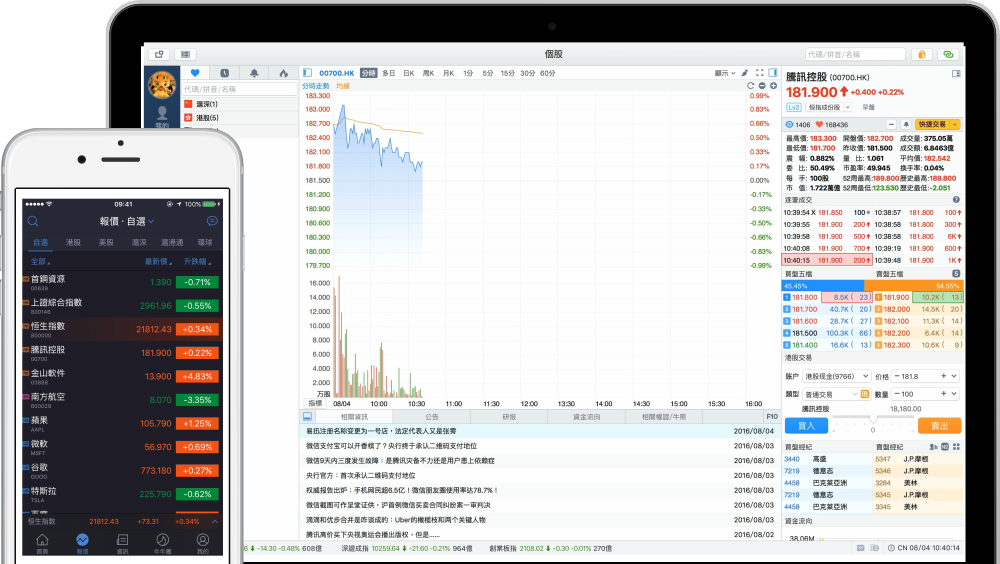
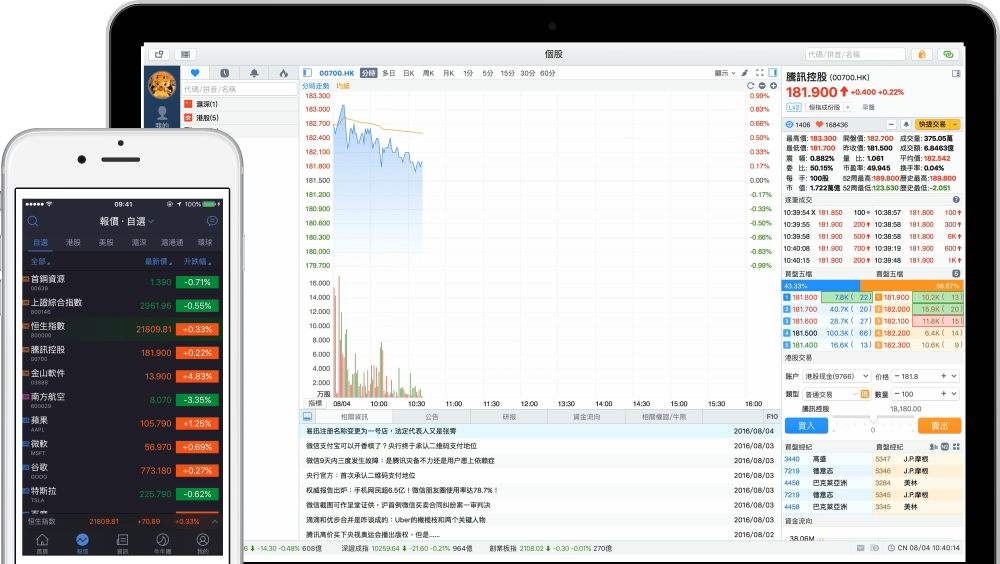
富途牛牛屏幕演示动画修改

diff --git a/js/futunnscreen-data.js b/js/futunnscreen-data.js
@@ -1,34 +1,52 @@
 var position = {
-	1:[0,1367526,1,223947,2,480639,669,3331,1351,3318,2029,3322,2712,3319,3395,3315,4077,3318,4754,104913,4755,54297,6340,1660],
-	2:[0,1304548,299,3697,598,3713,881,3713,1164,3713,1462,3698,1765,3697,2068,743573,2441,3365,3052,3373,3683,3597,4082,3623,4465,3623,4840,3647,5185,159235,6916,1084],
-	3:[0,1272584,305,3695,610,3695,915,3631,1284,3631,1653,3655,1998,3655,2343,3651,2692,3655,3037,3643,3394,3643,3751,3651,4100,3655,4445,3651,4794,3651,5143,3643,5500,3695,5805,3695,6110,3631,6479,3631,6848,3695,7153,3695,7458,3695,7763,711519,7764,4041,7927,4009,7928,3827,8069,96997,8364,3685,8683,3681,9002,3677,9325,3681,9644,3681,9943,3997,9946,50133,13264,2736],
-	4:[0,543776,7,3993,10,3989,25,3985,40,3985,55,3985,70,19973,101,3981,120,3967,157,3963,190,3973,221,3965,252,59493,287,3965,322,3965,357,3965,392,3965,427,3985,442,155903,683,3749,1078,3605,1473,3611,1862,3605,2257,3605,2652,3625,3019,23649,3562,3437,4129,3433,4700,3429,5271,3429,5842,3429,6413,3678,6415,24307,6456,3401,7055,3401,7654,3401,8256,3398,8855,3590,9265,27349,9916,3345,10571,3345,11226,3345,11881,3345,12536,3347,13192,11298,13559,3633,13926,3633,14293,3633,14660,3633,15359,3301,16058,3301,16757,3301,17459,3298,18158,3301,18857,3301,19224,3633,19591,3634,19957,55929,19964,3993,19971,3991,19980,3993,19987,3725,20646,3341,21305,3341,21964,3341,22619,3345,23266,3353,23905,3627,23914,3993,23921,3993,23928,101125,24265,3451,24816,3453,25363,3441,25922,3457,26465,3453,27012,3449,27563,3453,28110,3449,28661,3445,29216,3449,29767,3449,30318,3453,30865,3453,31412,3453,31959,3445,32514,3445,33069,3453,33616,3449,34167,3445,34722,3445,35277,3445,35832,3449,36383,3445,36938,895109,49252,2748],
-	5:[0,663280,55,3945,110,3945,163,3947,222,3941,281,3945,334,436087,353,3977,376,1325,377,2651,400,1325,403,2651,424,3713,1079,3341,1742,3337,2401,3341,3064,3337,3727,3337,4386,3609,4409,3977,4432,3981,4451,12286,4549,3861,4696,3857,4839,3857,4982,3857,5121,3861,5264,68613,5365,3727,5978,3391,6587,3387,7200,3387,7813,3383,8430,3375,9055,3375,9680,3387,10293,3387,10906,3375,11531,3331,12200,3375,12825,3375,13450,3375,14075,3375,14700,3375,15325,3375,15950,3375,16575,3387,17188,3391,17797,3375,18422,3375,19047,3387,19660,223264,19661,99998,19664,143377,19671,3993,19686,3987,19699,3985,19714,3985,19729,3985,19740,28005,19755,3985,19766,3987,19783,3983,19800,3985,19815,3989,19822,24061,19913,3801,20112,3789,20323,3789,20534,3797,20739,3807,20930,3805,21129,23905,21220,3801,21419,3789,21630,3789,21841,3798,22045,3793,22250,3805,22449,23905,22540,3801,22739,3789,22950,3789,23161,3799,23362,3905,23457,3905,23556,216285,31408,592],
-	6:[0,543781,1,12004,2,7993,4,23983,6,7986,7,67526,62,3945,117,3947,168,3947,227,3941,286,3945,341,155911,544,3801,765,4119,766,3617,767,4140,885,31965,886,4341,903,3541,904,11999,923,28443,924,19995,925,27623,1092,3975,1333,7756,1367,3626,1368,4584,1369,31353,1650,8389,1651,7313,1652,68299,1671,3981,1690,1309,1691,2671,1710,1309,1713,2669,1732,3693,2391,3341,3054,3337,3713,3341,4376,3337,5039,3339,5696,3629,5715,3966,5749,3825,5956,3793,6163,3793,6370,3793,6577,3793,6784,3793,7314,3470,7863,3451,8401,3462,8608,3793,8815,3793,9022,3793,9229,3794,9435,43851,9440,3937,9647,3793,9854,3793,10061,3793,10268,3793,10475,3793,10682,3793,10889,3793,11096,1167,11097,2625,11304,1167,11305,2625,11512,1171,11549,2585,11756,1207,11757,2585,11964,3793,12171,729,12172,3063,12379,3793,12586,1143,12587,2649,12794,3793,13001,3793,13208,3793,13415,3793,13622,3793,13829,3793,14036,3793,14243,3793,14450,3839,14607,224666,14608,99998,14611,151378,14612,12006,14613,76108,14618,3851,14619,11996,14620,4130,14654,27863,14778,11964,14779,3939,14780,3981,14781,35971,14782,3989,14894,3999,14908,4007,14909,144189,14920,3989,14935,3985,14942,1959,14951,2025,14966,3985,14981,1903,14982,2081,14989,52169,19988,12],
-	7:[0,663317,1,19970,2,315908,3,32218,4,103739,5,4628,7,128661,448,3387,1063,3389,1674,2575,1675,809,2290,3385,2905,3381,3524,3373,4151,2497,4152,875,4779,3385,5394,3385,6009,3373,6636,3373,7263,3373,7890,3373,8517,3373,9144,3373,9771,2546,9772,826,10399,3373,11026,2450,11027,922,11654,3385,12269,3389,12880,3373,13507,3373,14134,3385,14749,566763,14760,7869,14761,55987,14762,80889,15124,3634,15485,3635,15854,3631,16219,3635,16590,3629,16959,3635,17316,89021,17317,11969,17318,58243,23092,908],
-	8:[0,543774,1,59995,2,59513,53,3945,108,3949,155,3949,214,3941,273,3941,332,159913,430,8083,458,7893,459,28430,460,7450,461,8089,462,35901,471,20549,472,27914,569,7756,714,7899,817,36124,818,79614,837,3981,856,3981,875,3981,894,3705,1545,3337,2208,3337,2867,3341,3530,3337,4193,3361,4828,3629,4847,3981,4866,3981,4885,4013,4894,3863,4895,16111,4896,4243,4897,7767,4898,3979,4899,4379,4900,3819,5107,3793,5314,3793,5521,3793,5728,3793,5935,3793,6142,3793,6349,3793,6556,3793,6763,3793,6970,3793,7177,3501,7676,3794,7882,3481,7883,8035,7884,4017,7885,7937,7886,5375,7887,2623,8036,1397,8037,3723,8118,4134,8128,3789,8129,4151,8180,3763,8437,3755,8450,2862,8451,1151,8452,4028,8637,30575,8678,572094,8679,4075,8680,32048,8681,19858,8819,3851,8820,39993,8821,48913,9169,3668,9170,4015,9171,7993,9172,89121,9481,3877,9482,3887,9483,3953,9484,4103,9572,54210,12764,3236],
-	9:[0,663282,53,3945,108,3945,161,3951,216,3941,275,3941,330,480081,368,3830,574,3794,781,3793,987,3794,1193,3794,1399,3794,1605,3794,1811,3794,2017,3794,2224,3793,2431,3793,2638,3793,3207,3431,3777,3794,3984,3793,4191,3793,4398,3793,4605,3793,4812,3793,5019,3793,5226,3793,5432,3794,5638,3794,5844,3794,6051,3793,6258,3793,6465,3793,6672,762,6945,2758,7152,758,7429,2758,7636,758,7913,2758,8120,750,8405,2758,8612,754,8893,2758,9100,758,9377,2758,9584,782,9837,2758,10044,754,10325,2758,11567,2758,12809,2764,13010,726,13319,3679,13640,3679,13961,3679,14282,3667,14615,3751,14864,3747,15117,3747,15370,3715,15655,3747,15908,3715,16193,3719,16474,3719,16755,895110,22340,1660],
+	1:[0,1304548,299,3697,598,3713,881,3713,1164,3713,1462,3698,1765,3697,2068,38679,2069,223947,2070,480641,2747,3319,3429,3318,4107,3322,4789,3320,5472,3315,6154,3318,6831,104913,6832,54297,9112,2888],
+	2:[0,543776,3,7989,18,3985,33,27973,48,3997,67,3969,98,3969,129,3973,160,3993,163,59501,182,3973,217,3965,252,3965,287,3985,302,3985,309,155937,524,3749,919,3605,1314,3617,1697,3605,2092,3605,2487,3870,2489,23769,2508,3961,3075,3433,3642,3433,4212,3430,4783,3429,5350,3683,5351,24310,5389,3409,5972,3413,6567,3401,7166,3401,7765,3591,8174,27353,8821,3349,9472,3347,10125,3346,10779,3353,11426,3349,12077,11302,12443,3634,12809,3634,13175,3634,13541,3634,14239,3302,14937,3302,15635,3302,16333,3302,17031,3302,17729,3302,18095,3634,18461,3634,18827,55929,18830,3997,18837,3993,18844,3993,18851,3729,19486,3361,20145,3341,20804,3341,21455,3349,22102,3357,22737,3629,22744,3993,22751,3993,22754,105281,22939,3815,23124,3815,23309,3815,23494,3815,23679,3987,23692,3987,23705,3987,23718,3987,23731,3735,23996,3655,24341,3763,24578,3739,24839,3987,24852,3687,25165,3791,25374,3987,25387,3987,25400,3815,25585,3815,25770,3815,25955,3815,26140,3819,26321,824695,26596,3709,26899,3693,27206,3697,27509,3713,27792,54133,37056,2944],
+	3:[0,543780,3,3993,6,11989,21,3985,36,19977,63,3989,70,3971,107,3963,138,3979,164,3966,185,59503,240,3945,295,3945,348,3947,407,3941,466,3945,519,155881,748,3969,811,3733,1193,3620,1462,3762,1815,3738,2074,3633,2441,23653,2980,3465,3513,3539,3984,3434,4550,3449,5084,3562,5539,3678,5540,24308,5579,3403,6178,3401,6763,3605,7175,3402,7752,3608,7766,27745,8415,3347,9069,3346,9714,3355,10359,3355,10996,3365,11652,11298,12017,3635,12018,3999,12019,3999,12384,3635,13081,3303,13758,3323,14443,3315,15145,3298,15842,3303,16519,3323,16884,3635,17249,59935,17268,3977,17291,1325,17292,2649,17317,1325,17320,2650,17342,3713,17997,3341,18660,3337,19319,3341,19982,3337,20645,3341,21300,3607,21325,3977,21348,3981,21367,12286,21465,3861,21612,3857,21755,3857,21898,3857,22037,3861,22180,68613,22621,3387,23236,3389,23847,3385,24462,3385,25077,3381,25696,3373,26323,3373,26950,3385,27565,3385,28180,3373,28807,3329,29478,3373,30105,3373,30732,3373,31359,3373,31986,3373,32613,3373,33240,3373,33867,3385,34482,3389,35093,3373,35720,3373,36347,3385,36962,223262,36963,99998,36966,143377,36973,3993,36988,3987,37001,3985,37016,3985,37031,3985,37042,28005,37057,3985,37068,3987,37085,3983,37102,3985,37117,3989,37124,24061,37215,3801,37414,3789,37625,3789,37836,3797,38041,3807,38232,3805,38431,23905,38522,3801,38721,3789,38932,3789,39143,3798,39347,3793,39552,3805,39751,23905,39842,3801,40041,3789,40252,3789,40463,3799,40664,3905,40759,3905,40858,32693,40859,4041,40866,3989,41043,3827,41198,3829,41199,4027,41447,88878,41742,3685,42061,3693,42368,3691,42677,3689,42988,3681,43279,4005,43282,50133,57712,2288],
+	4:[0,543781,1,19998,3,23983,5,7986,6,67526,61,3945,116,3947,167,3947,226,3941,285,3945,340,155911,543,4021,544,4119,545,3617,546,4140,547,32082,548,4341,565,3541,566,11999,585,28443,586,19995,587,27623,754,3975,995,7756,1029,3606,1030,4604,1031,27613,1032,3739,1313,8389,1314,7313,1315,68299,1334,3981,1353,1309,1354,2671,1373,1309,1376,2669,1395,3697,2050,3341,2713,3337,3372,3341,4035,3337,4698,3361,5333,3629,5352,3966,5386,3825,5593,3793,5800,3793,6007,3793,6214,3793,6421,3793,6628,3793,7177,3451,7715,3462,7922,3793,8129,3793,8336,3793,8543,3794,8749,43851,8754,3937,8961,3793,9168,1165,9401,2395,9608,917,10089,2395,10296,913,10781,2395,10988,913,11473,2395,11680,841,12237,2395,12444,913,12929,2395,13136,913,13621,2395,13828,845,14381,2395,14588,917,15069,2395,15276,917,15757,2395,15964,913,16449,2395,16656,729,17325,2395,17532,917,18013,2395,18220,917,18701,2395,18908,917,19389,2395,19596,917,20077,2395,20284,917,20765,2395,20972,917,21453,2395,21660,917,22141,2395,22348,849,22897,2395,23104,849,23653,2395,23860,913,24347,2393,24554,913,25041,2439,25198,921,25679,223264,25680,99998,25683,151378,25684,12006,25685,76108,25690,3851,25850,7869,25851,3967,25852,4163,25853,27863,25977,11964,25978,3939,25979,3963,25998,39961,26110,3999,26124,4007,26125,144189,26136,1951,26137,2037,26152,3985,26159,1967,26160,2025,26175,1917,26176,2067,26191,3985,26198,52169,34932,1068],
+	5:[0,543774,1,59995,2,59511,55,3945,110,3945,163,3947,222,3941,281,3945,336,159913,434,8083,462,7893,463,28430,464,7450,465,8089,466,35901,475,20549,476,27914,573,7756,718,7899,821,36124,822,79614,841,3981,860,3981,879,3981,898,3705,1549,3337,2212,3337,2871,3341,3534,3337,4197,3361,4832,3629,4851,3957,4894,3825,5100,3794,5307,3793,5513,3794,5719,3794,5925,3794,6132,3793,6338,3794,6755,3583,6961,3794,7167,3794,7374,3793,7789,3585,8360,3793,8567,3793,8774,3793,8981,3793,9188,3793,9395,3793,9602,3793,9809,3793,10016,3793,10223,3793,10430,3501,10929,3793,11136,3481,12689,2759,13932,2481,15451,2499,16952,2757,18195,2437,19758,2757,21001,2433,22568,2757,23811,2757,25054,2757,26297,2763,27534,3373,28161,3373,28788,2574,28789,798,29416,2494,29417,878,30044,2482,30045,890,30672,3373,31299,2490,31300,882,31927,3385,32542,3389,33153,3373,33778,3375,34403,2517,34444,829,35059,570650,35060,4075,35061,32048,35062,19858,35200,3851,35201,39993,35202,40903,35555,3643,35916,3635,36285,3631,36650,3635,37021,3629,37390,3635,37747,88805,38056,7765,38057,3953,38058,4103,38146,54210,50864,1136],
+	6:[0,663296,35,3961,74,3961,109,3965,148,3961,191,3969,218,331793,585,3633,952,3633,1319,3633,1686,3633,2053,3633,2420,3633,2787,3633,3154,3633,3521,3633,3888,3633,4255,3633,4622,3634,4988,80275,4989,47682,4990,3924,5098,16370,5099,7996,5100,7843,5257,7867,5258,19987,5259,12950,5489,3522,5971,3514,6457,3514,6943,3514,7429,2823,8606,3514,9092,3514,9578,3518,10060,3518,10542,3514,11028,3514,11514,3518,11996,3518,12478,3518,12960,3518,13442,3518,13924,3518,14406,3518,14888,3518,15370,3518,15852,3514,16338,3514,16824,3522,17302,895110,23072,928],
+	7:[0,663289,6,15994,46,3967,47,167913,48,4049,49,188067,143,8014,144,83728,778,3389,779,3969,1384,7398,1430,3993,2037,11841,2244,3431,2813,3793,3020,3793,3227,3522,3705,3793,3912,3522,4390,3793,4597,3793,4804,3793,5011,3793,5218,3793,5425,3793,5632,3922,5697,4007,5698,7867,5796,3899,5905,3883,6041,3980,6042,7878,6159,3987,6204,11546,6205,12300,6237,4007,6238,3971,6239,4004,6240,3998,6241,8925,6242,3979,6243,3118,6252,812,6269,3999,6334,4023,6335,7943,6336,861149,6339,66241,8452,3548],
+	8:[0,1031798,1,19417,2,95976,3,8590,21,11600,34,3875,35,12097,36,3988,37,7988,53,4463,54,8715,151,3899,256,2623,257,1271,383,3882,501,2974,514,891,631,3879,744,3015,1721,3023,1810,4007,1811,8039,1840,3911,1917,3995,1922,11598,1923,5028,2348,2438,3910,2823,5087,3551,5536,3551,5985,3551,6434,3551,6883,3547,7336,3551,7785,3551,8234,2763,8235,787,8684,3547,9137,3551,9586,3543,10043,3543,10500,3543,10957,3543,11414,3543,11871,3551,12320,3551,12769,3551,13218,3547,13671,3575,14096,711258,14701,3387,15334,3367,15969,3365,16602,3367,17236,3370,17865,3367,18474,87075,18489,3985,18500,3989,18507,3993,18522,3985,18533,3989,18540,52169,24720,3280],
+	9:[0,1176364,527,3469,1056,3471,1585,3471,2114,3471,2643,3471,3172,3471,3701,3467,4236,3465,4771,3465,5306,3449,5857,3465,6392,3457,6935,3457,7478,3457,8021,3457,8564,3469,9093,3471,9622,3471,10151,3471,10680,3471,11211,3469,11742,3469,12273,3653,12618,23977,12623,8003,12624,3966,12658,3726,12659,4076,12660,3967,12661,3931,12662,4075,12663,3970,12719,3981,12720,739737,13094,3824,13095,7998,13096,3836,13429,3695,13430,4305,13431,159231,17908,2092],
+	10:[0,1163442,1,3841,208,3793,415,3793,622,769,1251,2395,1458,773,2085,2393,2292,773,2919,2393,3126,789,3737,2393,3944,789,4555,2393,4762,801,5361,2393,5568,801,6167,2393,6374,833,6939,2395,7146,833,7711,2395,9316,2395,10921,2759,12162,2759,13403,2759,14644,2759,15885,2759,17126,2749,18379,2747,19632,2757,20875,2757,22118,2757,23359,2759,24600,2759,25841,2759,27082,2759,27289,3793,27496,3793,27703,3793,27910,3793,28117,3793,28324,3793,28531,3793,28738,3793,28945,3793,29152,3798,29354,675806,29355,268338,39140,860],
+	11:[0,1176320,569,3431,1140,3429,1711,3437,2274,2474,2275,962,2838,3441,3397,3441,3956,3437,4517,3439,5078,3439,5639,3439,6200,3439,6761,3431,7330,2808,8522,2812,9710,2844,10866,2828,12040,2810,13230,2939,14291,3429,14862,2862,15998,3439,16559,3439,17120,3623,17497,10805,17542,4031,17603,796627,17604,103365,17607,3997,17622,3985,17637,3985,17652,3989,17663,56161,23552,448],
+	12:[0,1176260,631,3373,1256,3375,1881,3391,2490,3391,3099,3403,3696,3403,4293,3435,4860,3433,5427,3433,5994,3449,6545,3465,7080,3369,7711,3369,8342,3369,8973,3369,9604,3373,10229,3375,10854,3375,11479,3375,12104,3375,12731,3373,13358,3373,13985,3557,14423,987114,19232,768],
+	13:[0,1236656,1,63941,30,3913,297,3733,600,3697,899,3709,1198,3697,1501,3693,1808,3693,2107,743581,2452,3659,2821,3627,3180,3641,3555,3621,3936,3663,4273,3967,4302,84187,5769,2526,7243,2525,8718,2525,10193,2526,11667,2526,13141,2526,14615,49553,19488,512],
+	14:[0,1051292,1,217251,34,4144,203,3799,404,3799,605,3779,826,3799,1027,3799,1228,3799,1429,3799,1630,3651,1979,3654,2325,3704,2621,3675,2946,3675,3271,3668,3603,3651,3952,3799,4153,3799,4354,3799,4555,3799,4756,3799,4957,3799,5158,3799,5359,3799,5560,711530,5733,3827,5954,3779,6275,3675,6626,3649,6852,3778,7069,3787,7070,81649,7071,2973,8304,3216,9085,2752,10361,2907,11349,2800,12491,2958,13111,54279,17484,2516],
+	15:[0,1268832,58,3523,535,3523,996,3535,1461,3531,1934,3527,2407,3531,2888,3515,3373,3519,3854,3519,4335,3515,4820,3515,5305,3515,5790,3519,6271,3519,6752,3527,7225,3527,7698,3515,8183,3515,8668,3511,9145,3523,9622,3531,10091,3527,10564,3530,10927,823049,10942,3989,10957,3985,10972,3985,10987,3985,11002,3985,11013,52165,14684,1316],
 };
 var diffHeight = {
-	1:2,
-	2:2,
-	3:4,
-	4:13,
-	5:8,
-	6:5,
-	7:6,
-	8:4,
-	9:6,
-	length:9,
+	1:3,
+	2:10,
+	3:15,
+	4:9,
+	5:13,
+	6:6,
+	7:3,
+	8:7,
+	9:5,
+	10:10,
+	11:6,
+	12:5,
+	13:5,
+	14:5,
+	15:4,
+	length:15,
 };
 var fillLength = {
-	1:6340,
-	2:6916,
-	3:13264,
-	4:49252,
-	5:31408,
-	6:19988,
-	7:23092,
-	8:12764,
-	9:22340,
+	1:9112,
+	2:37056,
+	3:57712,
+	4:34932,
+	5:50864,
+	6:23072,
+	7:8452,
+	8:24720,
+	9:17908,
+	10:39140,
+	11:23552,
+	12:19232,
+	13:19488,
+	14:17484,
+	15:14684,
 };

diff --git a/tool.html b/tool.html
@@ -52,7 +52,7 @@
 		let height = 564;
 		//请输入上一帧的相关信息
 		let last = {
-			src:'./images/screen/reset8.png',
+			src:'./images/screen/reset15.png',
 			isReset:true,//是否使用上次计算的无损还原图
 			width:800,
 			height:940,
@@ -60,7 +60,7 @@
 		};
 		//请输入下一帧的相关信息
 		let next = {
-			src:'./images/screen/9.png',
+			src:'./images/screen/16.png',
 		};
 		//加载图片
 		let lastImg = new Image();
